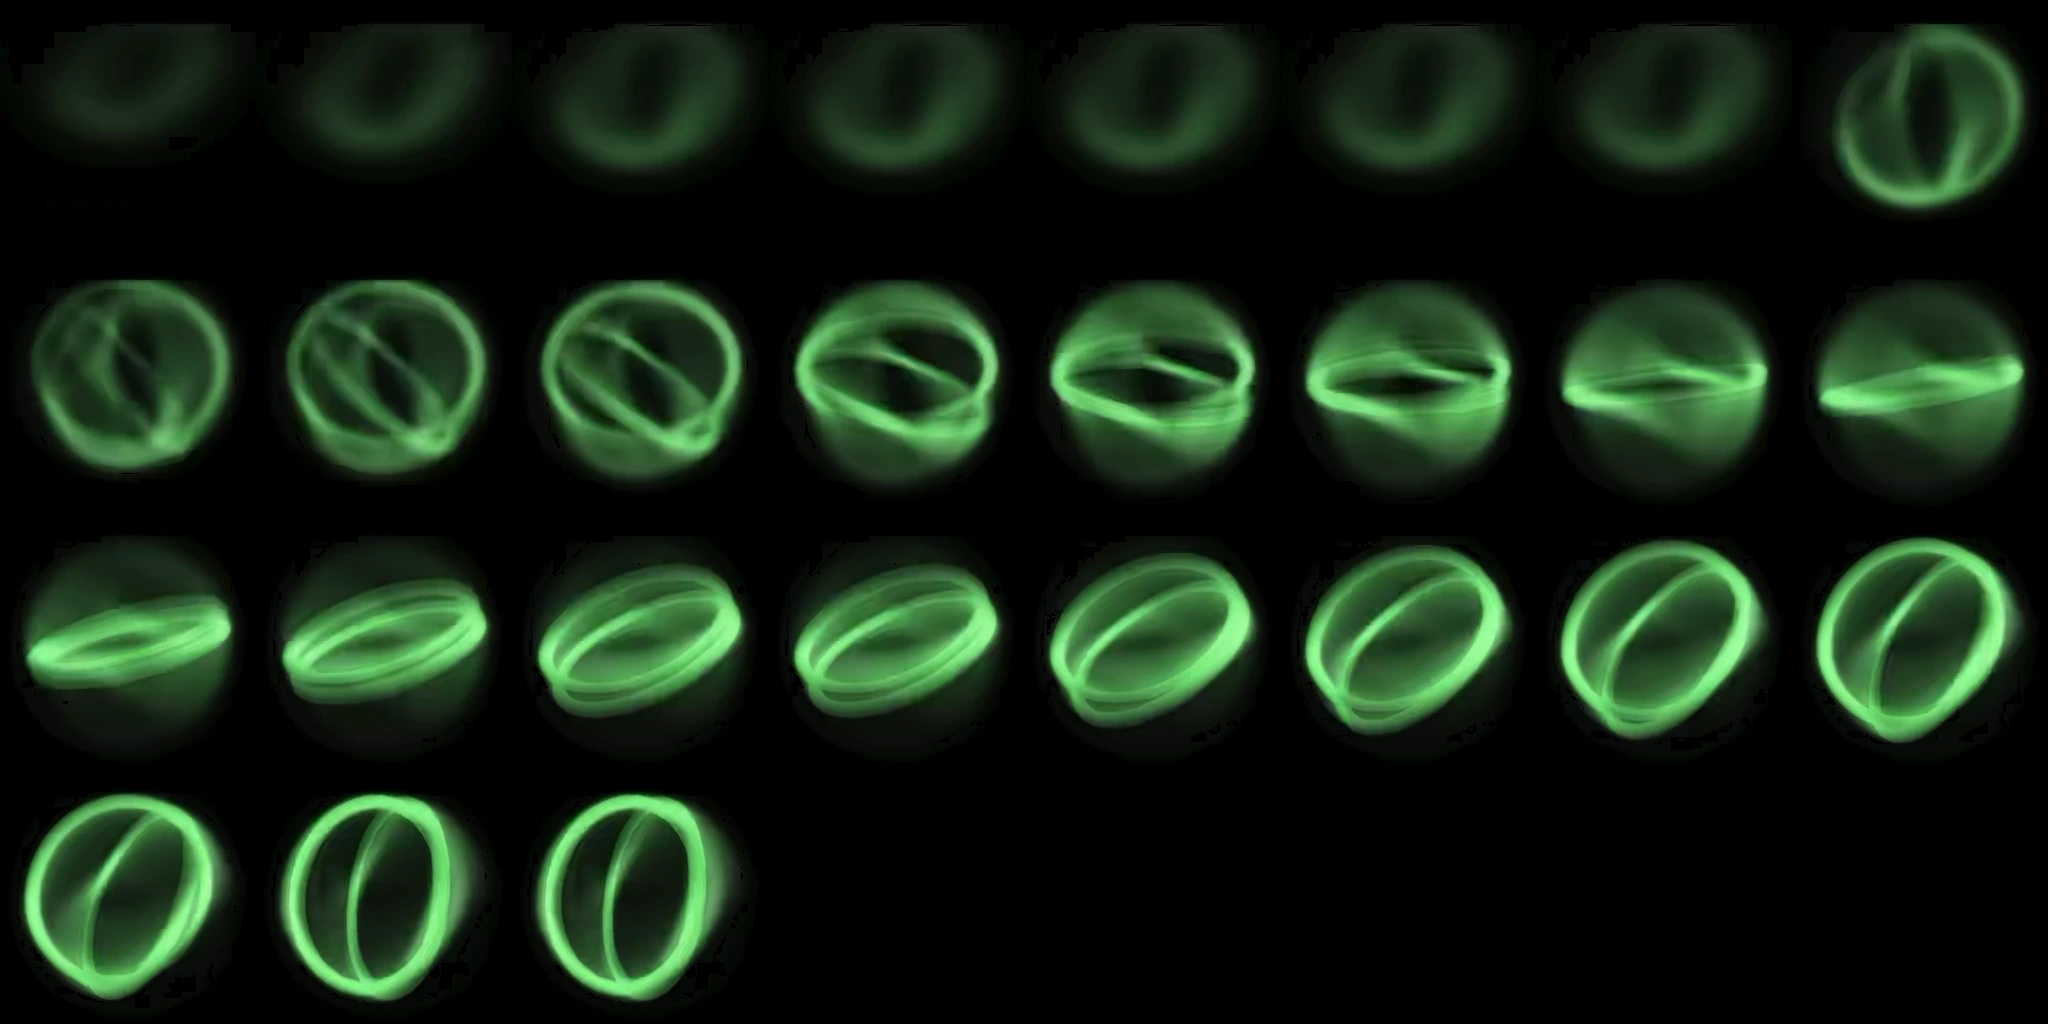
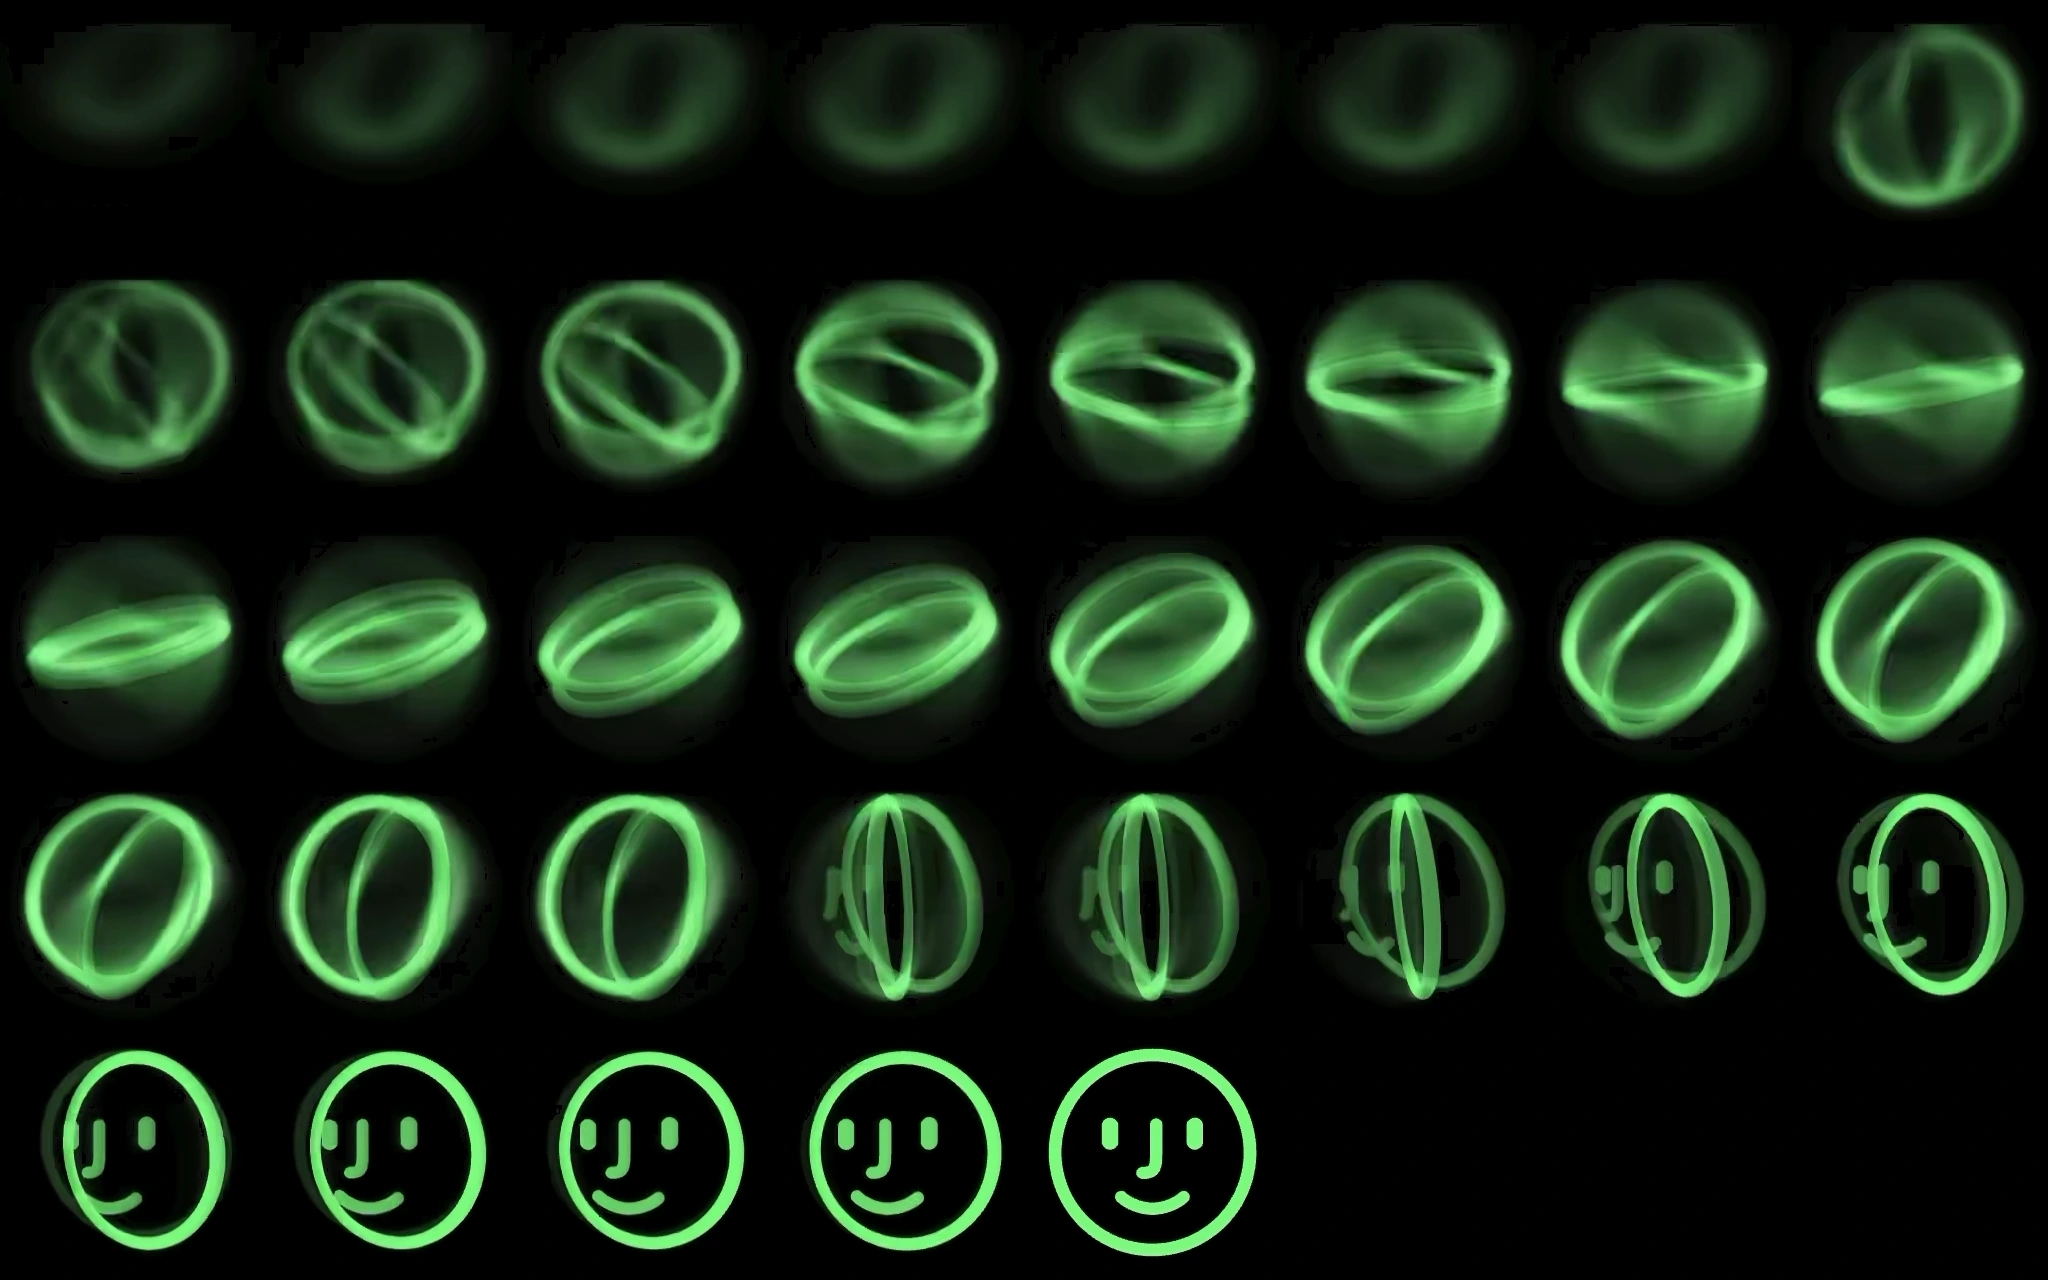
Add files via upload

diff --git a/assets/loading-island/source.md b/assets/loading-island/source.md
@@ -1,8 +1,10 @@
 # Loading island motion sources
 
-Motion pixels are extracted from the user-supplied reference recordings, not redrawn.
+Motion pixels are extracted from the user-supplied recordings, not redrawn.
 
-- `scan.webp`: first recording (`05-55-49_1.mov`), 4.55–4.983 seconds, 27 frames at 60 fps. Crop: (137,127)–(393,383).
+- `scan.webp`: first recording (`05-55-49_1.mov`), 4.55–5.15 seconds, 37 frames at 60 fps. Crop: (137,127)–(393,383). Frames 0–26 contain the original scan; frames 27–35 contain the face reveal; frame 36 uses the fully frontal 5.40-second source frame.
 - `done.webp`: second recording (`05-57-57_1.mov`), 3.05–4.15 seconds, 67 frames at 60 fps. Crop: (149,127)–(405,383).
-- Both atlases: 256 × 256 px per frame, 8 columns; unrelated screen pixels are masked to black. Source green glow and motion blur are retained.
-- Waiting plays the first scan once, then reverses the rotation segment back and forth; completion plays the second recording once through the check hold.
+- Both atlases: 256 × 256 px per tile, 8 columns. Unrelated screen pixels are masked to black; source glow and motion blur remain.
+- Waiting advances scan frames forward with interpolation, continuous 360° azimuth and independent horizontal/vertical perspective tilt. There is no reversed frame playback.
+- Completion settles the orbit, reveals and holds the first video's face, dissolves to the second video's open circle, then plays its check drawing.
+- When a game is ready, the same panel morphs into the compact baseball score. The actual baseball controller enters its already-open state before the loading surface is removed.
